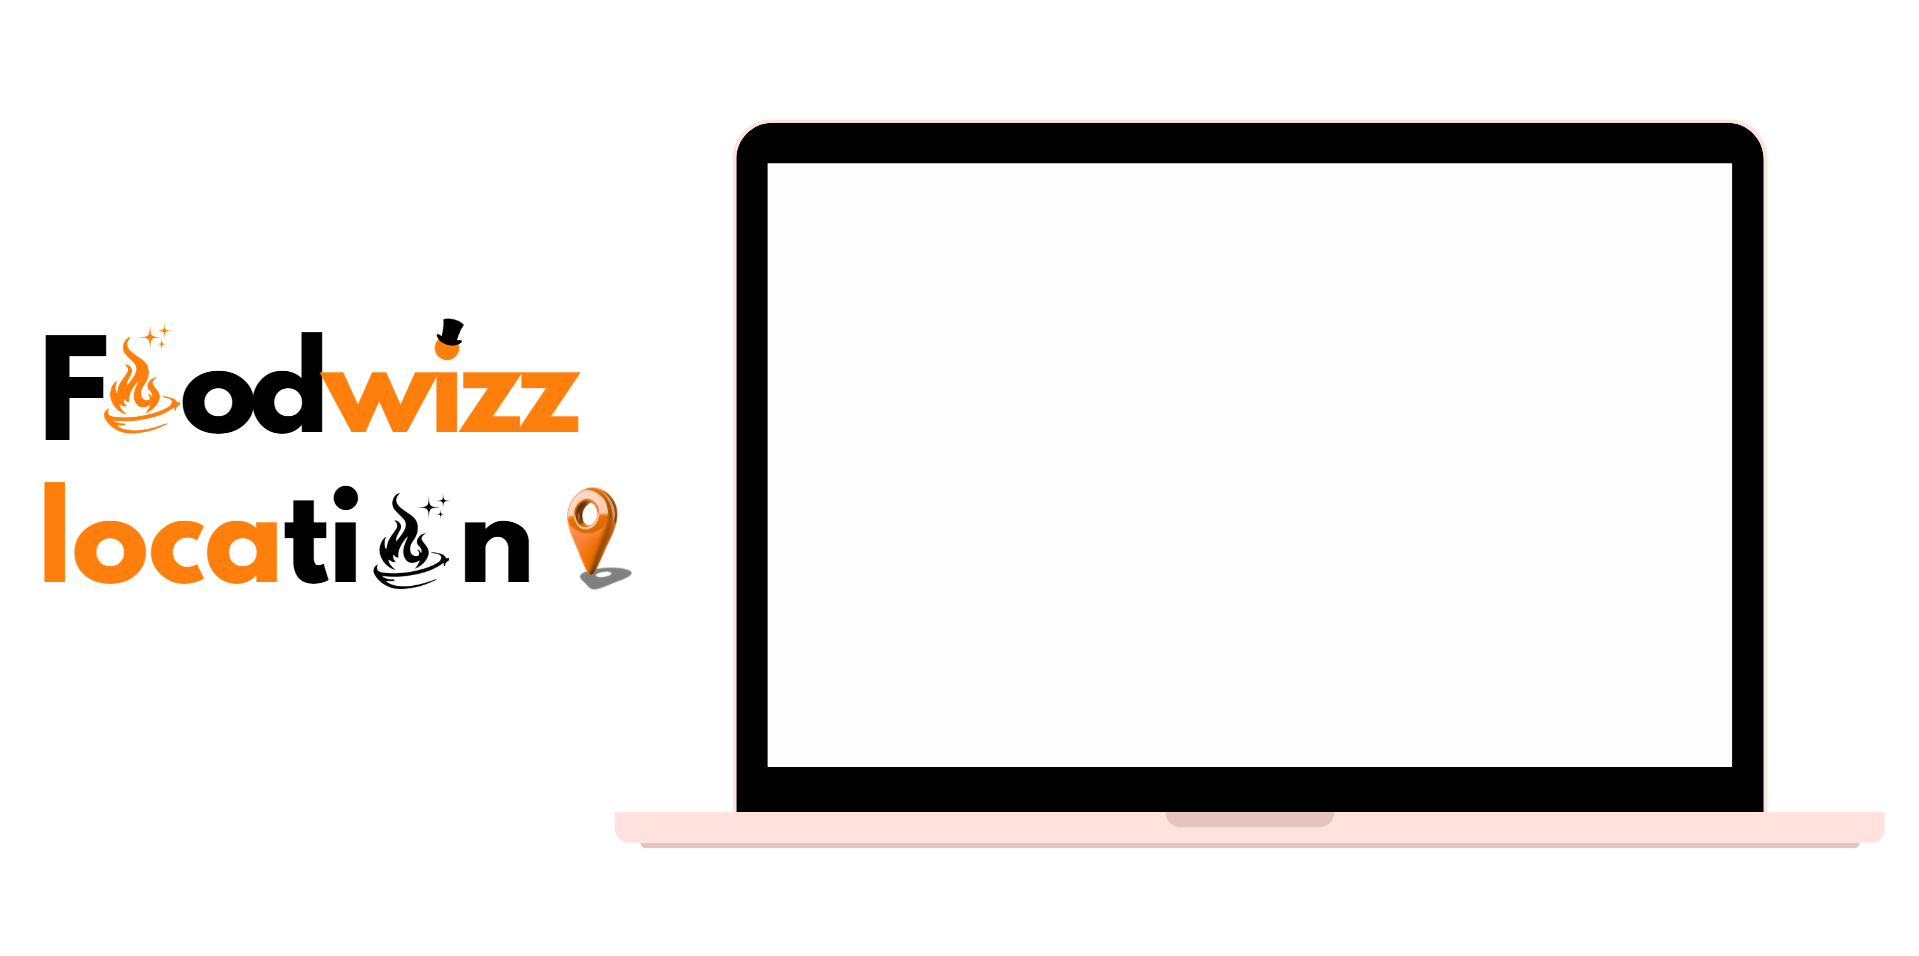
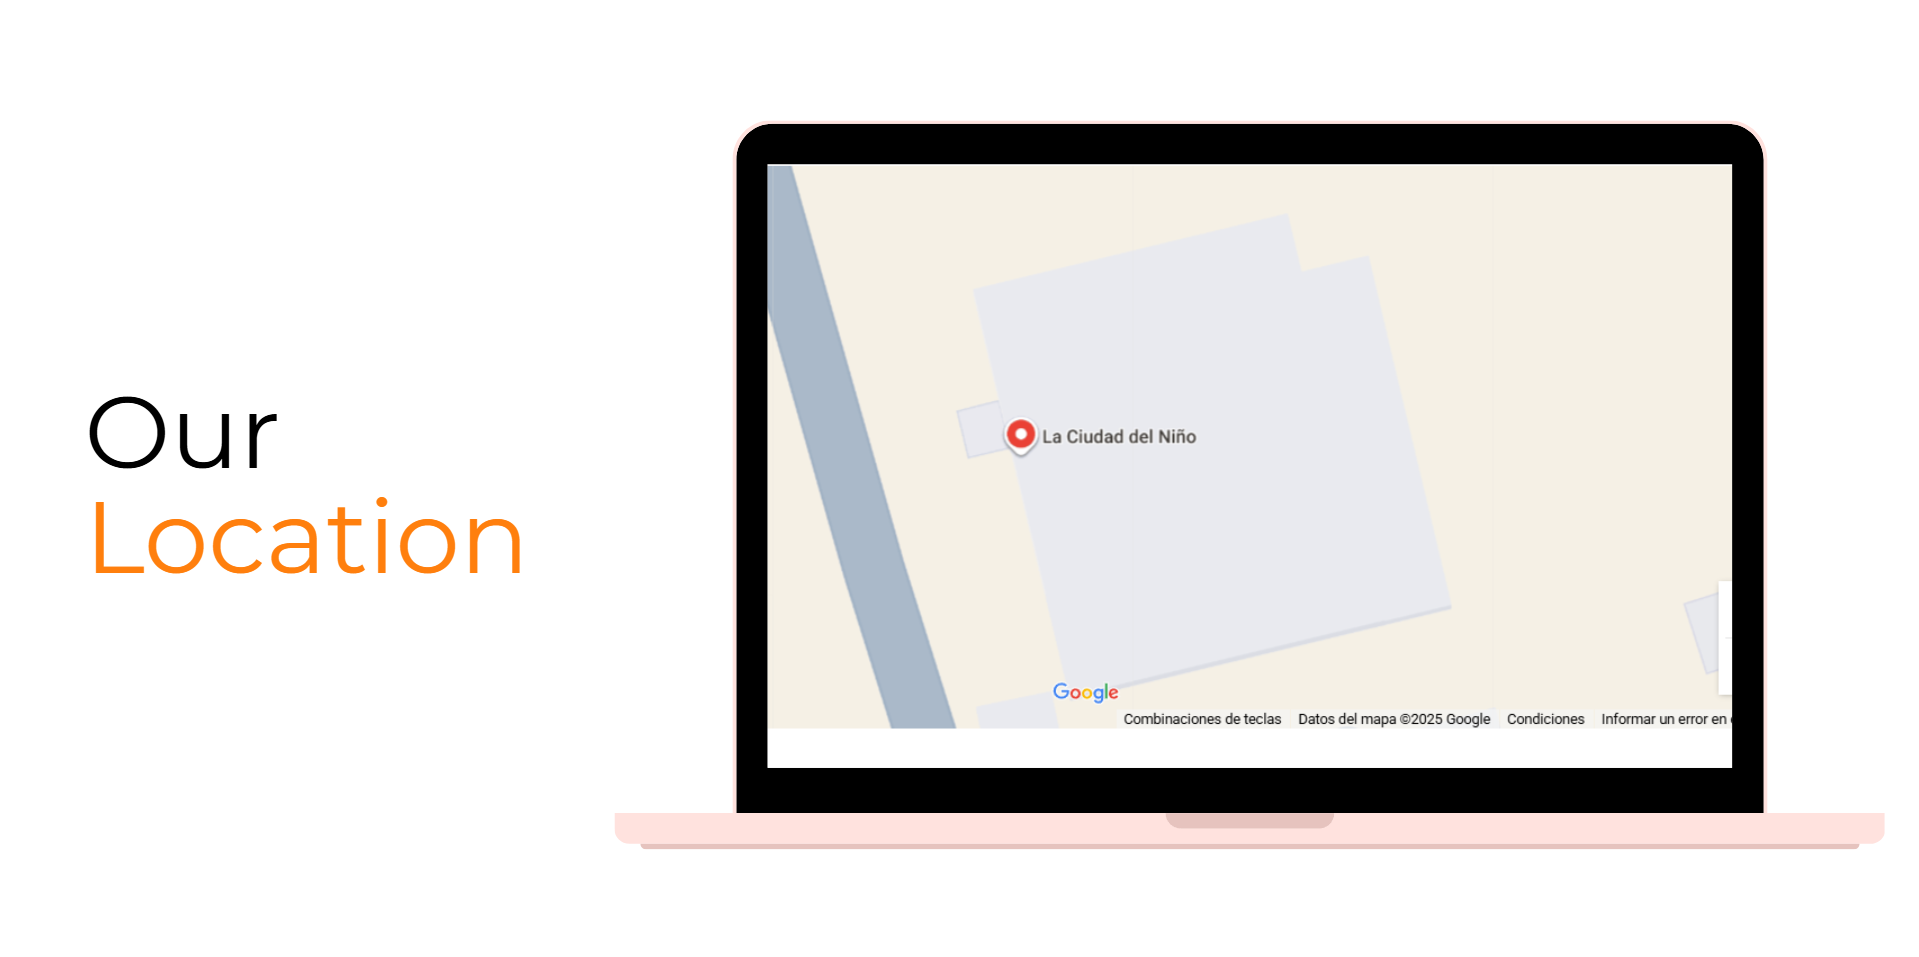
haj

diff --git a/css/ContactUs.css b/css/ContactUs.css
@@ -42,16 +42,16 @@ body {
 }
 
 .laptop-image {
-  width: 100%;
+  width: 150%;
   display: block;
-  margin-left: ;
+  margin-left: -150px;
 }
 
 .map-overlay {
   position: absolute;
   top: 16%;   /* Ajusta según el diseño de la laptop */
-  left: 39%;  /* Ajusta según el diseño de la laptop */
-  width: 52%; /* Ajusta según el tamaño de la pantalla */
+  left: 41%;  /* Ajusta según el diseño de la laptop */
+  width: 76%; /* Ajusta según el tamaño de la pantalla */
   height: 65%;
   border: none;
   border-radius: 10px;
